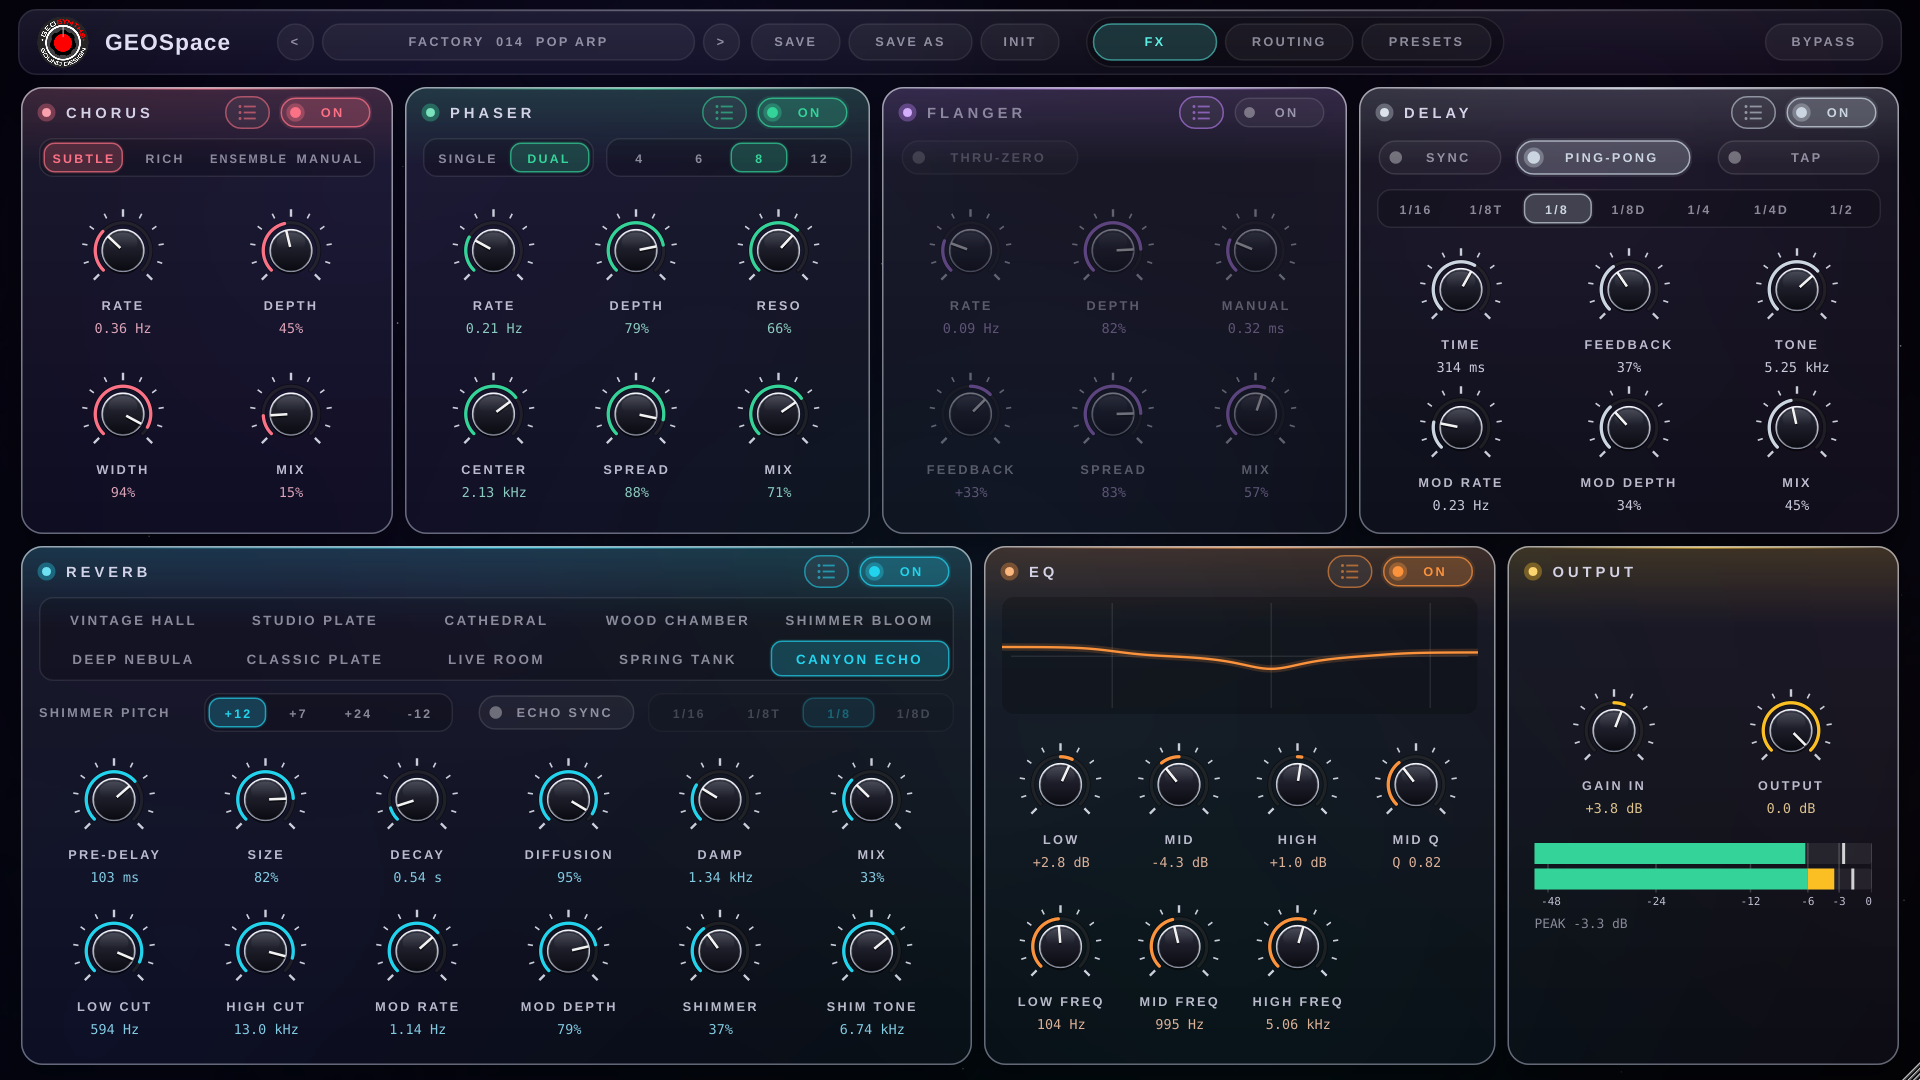
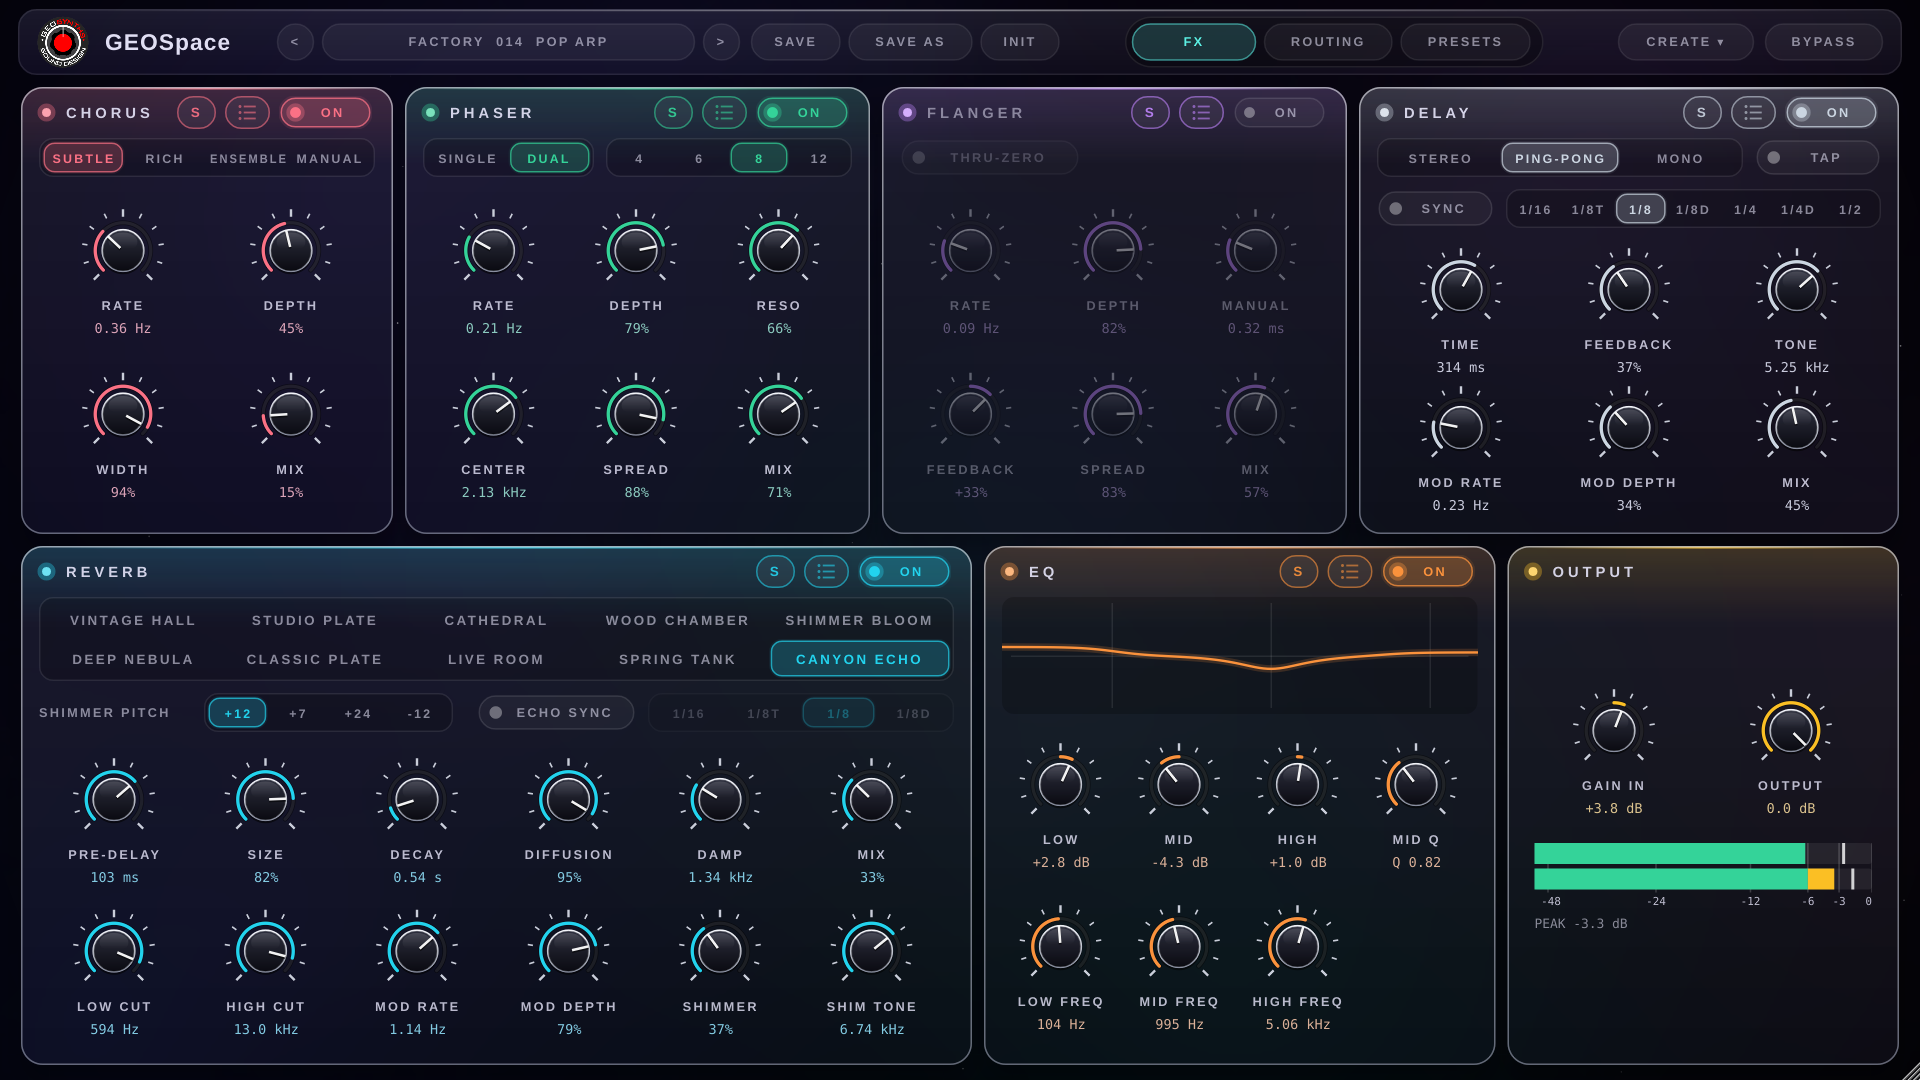
GEOSpace 1.1.0

diff --git a/README.md b/README.md
@@ -35,7 +35,7 @@ Prefer to install by hand? The **.dmg** holds the AU and VST3 to drag into
 - **Chorus**: BBD-style with Subtle, Rich, Ensemble and Manual modes.
 - **Phaser**: 4 to 12 stages, Single or Dual (bi-phase).
 - **Flanger**: with through-zero.
-- **Delay**: tape/BBD voicing, tempo sync, stereo or ping-pong.
+- **Delay**: tape/BBD voicing, tempo sync and tap tempo; Stereo, Ping-Pong or Mono repeats.
 - **Reverb**: ten models from small rooms to huge spaces, with shimmer.
 - **EQ**: 3 bands.
 - **Routing**: drag the effects into any order, or split them into two parallel lanes with
@@ -46,6 +46,9 @@ Prefer to install by hand? The **.dmg** holds the AU and VST3 to drag into
   bank you can edit.
 - **Presets**: banks of 128 slots, effect presets on the back of every effect card, and bank
   export/import to share sounds.
+- **Solo** on every effect, to hear exactly what it does while you set it up.
+- **Create**: eight variations of your sound, from close to wild, to audition with a click;
+  roll the dice for more, build on the one you like, lock effects you want to keep.
 - **Built-in guide**: click the GEOSynths logo inside GEOSpace.
 
 | Routing | Presets |
@@ -53,6 +56,8 @@ Prefer to install by hand? The **.dmg** holds the AU and VST3 to drag into
 | ![Routing](screenshots/routing.png) | ![Presets](screenshots/presets.png) |
 
 ![Effect presets](screenshots/effect-presets.png)
+
+![Create](screenshots/create.png)
 
 ## Updates and support
 

diff --git a/CHANGELOG.md b/CHANGELOG.md
@@ -4,6 +4,17 @@ GEOSpace uses version numbers like 0.9.0: the last number goes up for fixes, the
 for new features and the first one for big changes. 1.0.0 is the first public release.
 The build number after the version (e.g. 0.9.0 · 6b41ee6) names the exact source it came from.
 
+## 1.1.0 — 2026-11-02
+- **Solo** on every effect card (S): hear one effect on its own, with the dry signal, while
+  setting it up. Not saved, never changes the On switches, ends when the window closes.
+- Delay **Mode**: Stereo (repeats follow the sound's panning), Ping-Pong, and the new **Mono**
+  (repeats in the centre, as loud as in Stereo). Presets and projects keep their delay.
+- **Create** tab: your sound and eight variations of it, from close (A) to wild (H), to click
+  through and audition. Roll a new set with the dice, **Build on this** to keep going from a
+  variation you like, and lock effects to keep them as they are. Each pad shows its effects,
+  their amounts and order at a glance.
+- Drop-down menus use the same font as the knob readouts.
+
 ## 1.0.2 — 2026-11-01
 - **Save As** in the header: save the current sound into any bank (or a new one) and any
   slot, with the slot list showing which are free. Handy for keeping a factory preset you like
